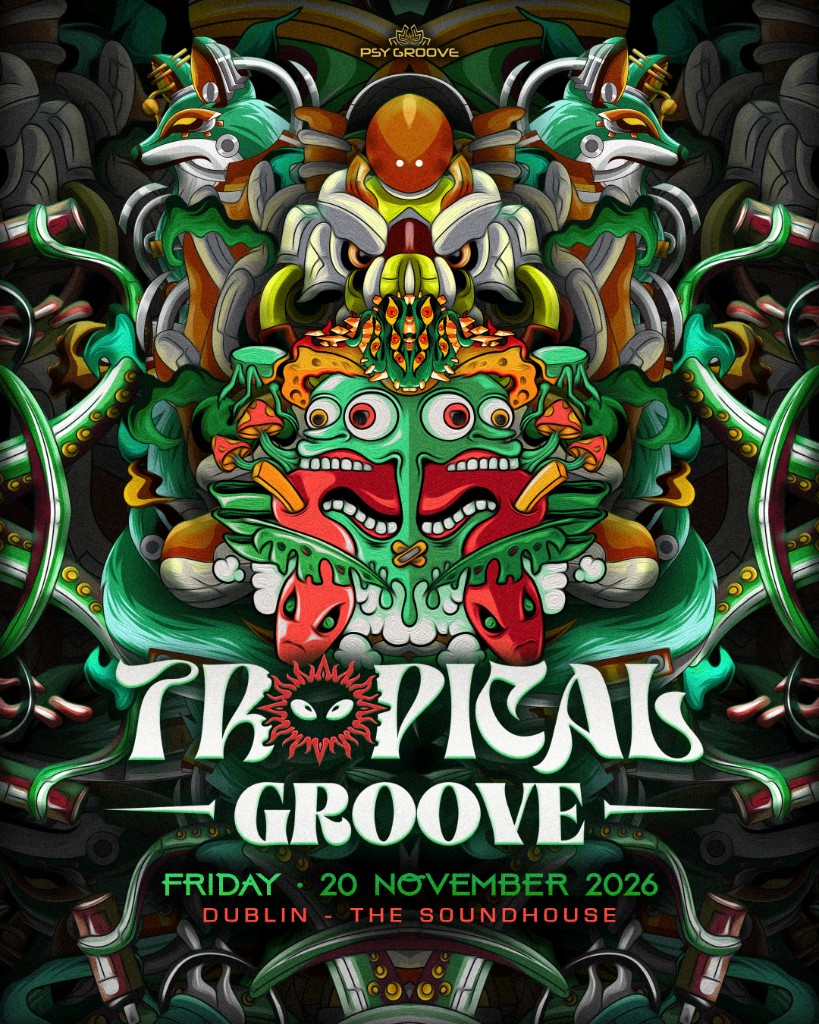
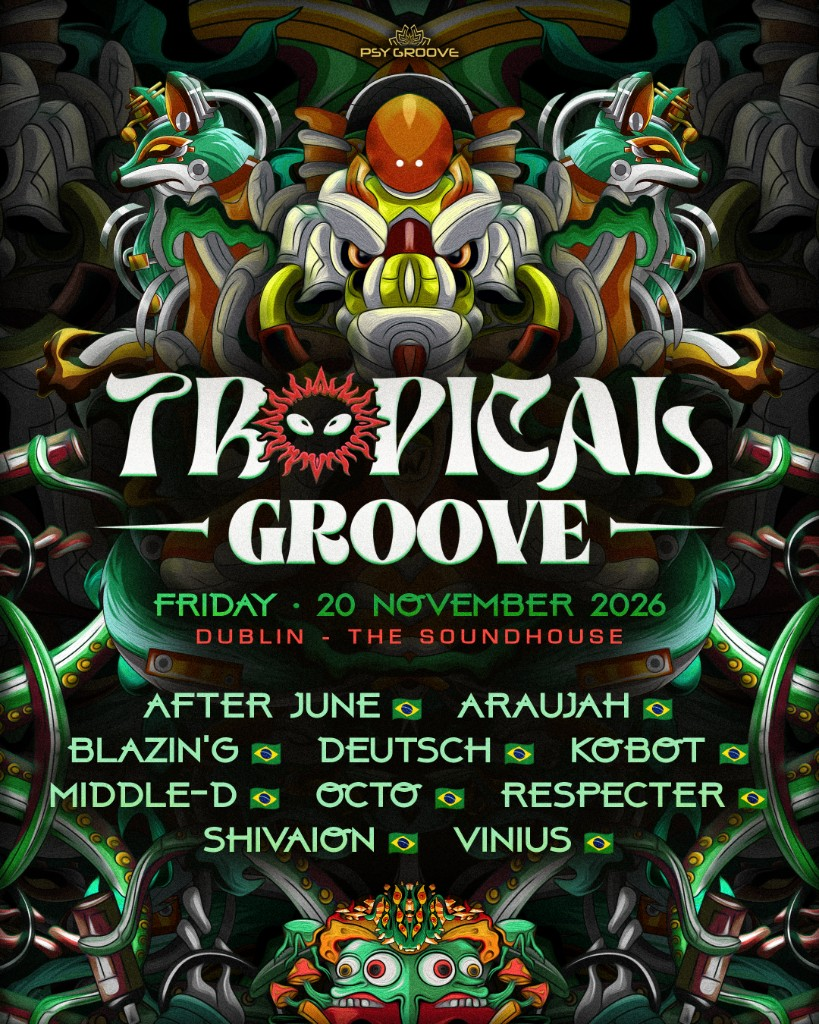
Update Tropical Groove card

diff --git a/src/components/UpcomingEventsList.tsx b/src/components/UpcomingEventsList.tsx
@@ -35,7 +35,11 @@ export function UpcomingEventsList({ events, partners }: UpcomingEventsListProps
           <div className="mt-6 space-y-4">
             {events.map((event, index) => {
               const highlighted = index < 2;
-              const summary = getStageSummary(event);
+              const lineupCount = event.stages.reduce((count, stage) => count + stage.artists.length, 0);
+              const summary = getStageSummary(
+                event,
+                event.cardArtists && event.cardArtists.length >= lineupCount ? lineupCount : 4,
+              );
               const ticketUrl = getPrimaryTicketUrl(event);
               const ticketsAvailable = hasTicketSales(event);
               const hasLink = ticketsAvailable || Boolean(event.links.goabase);
